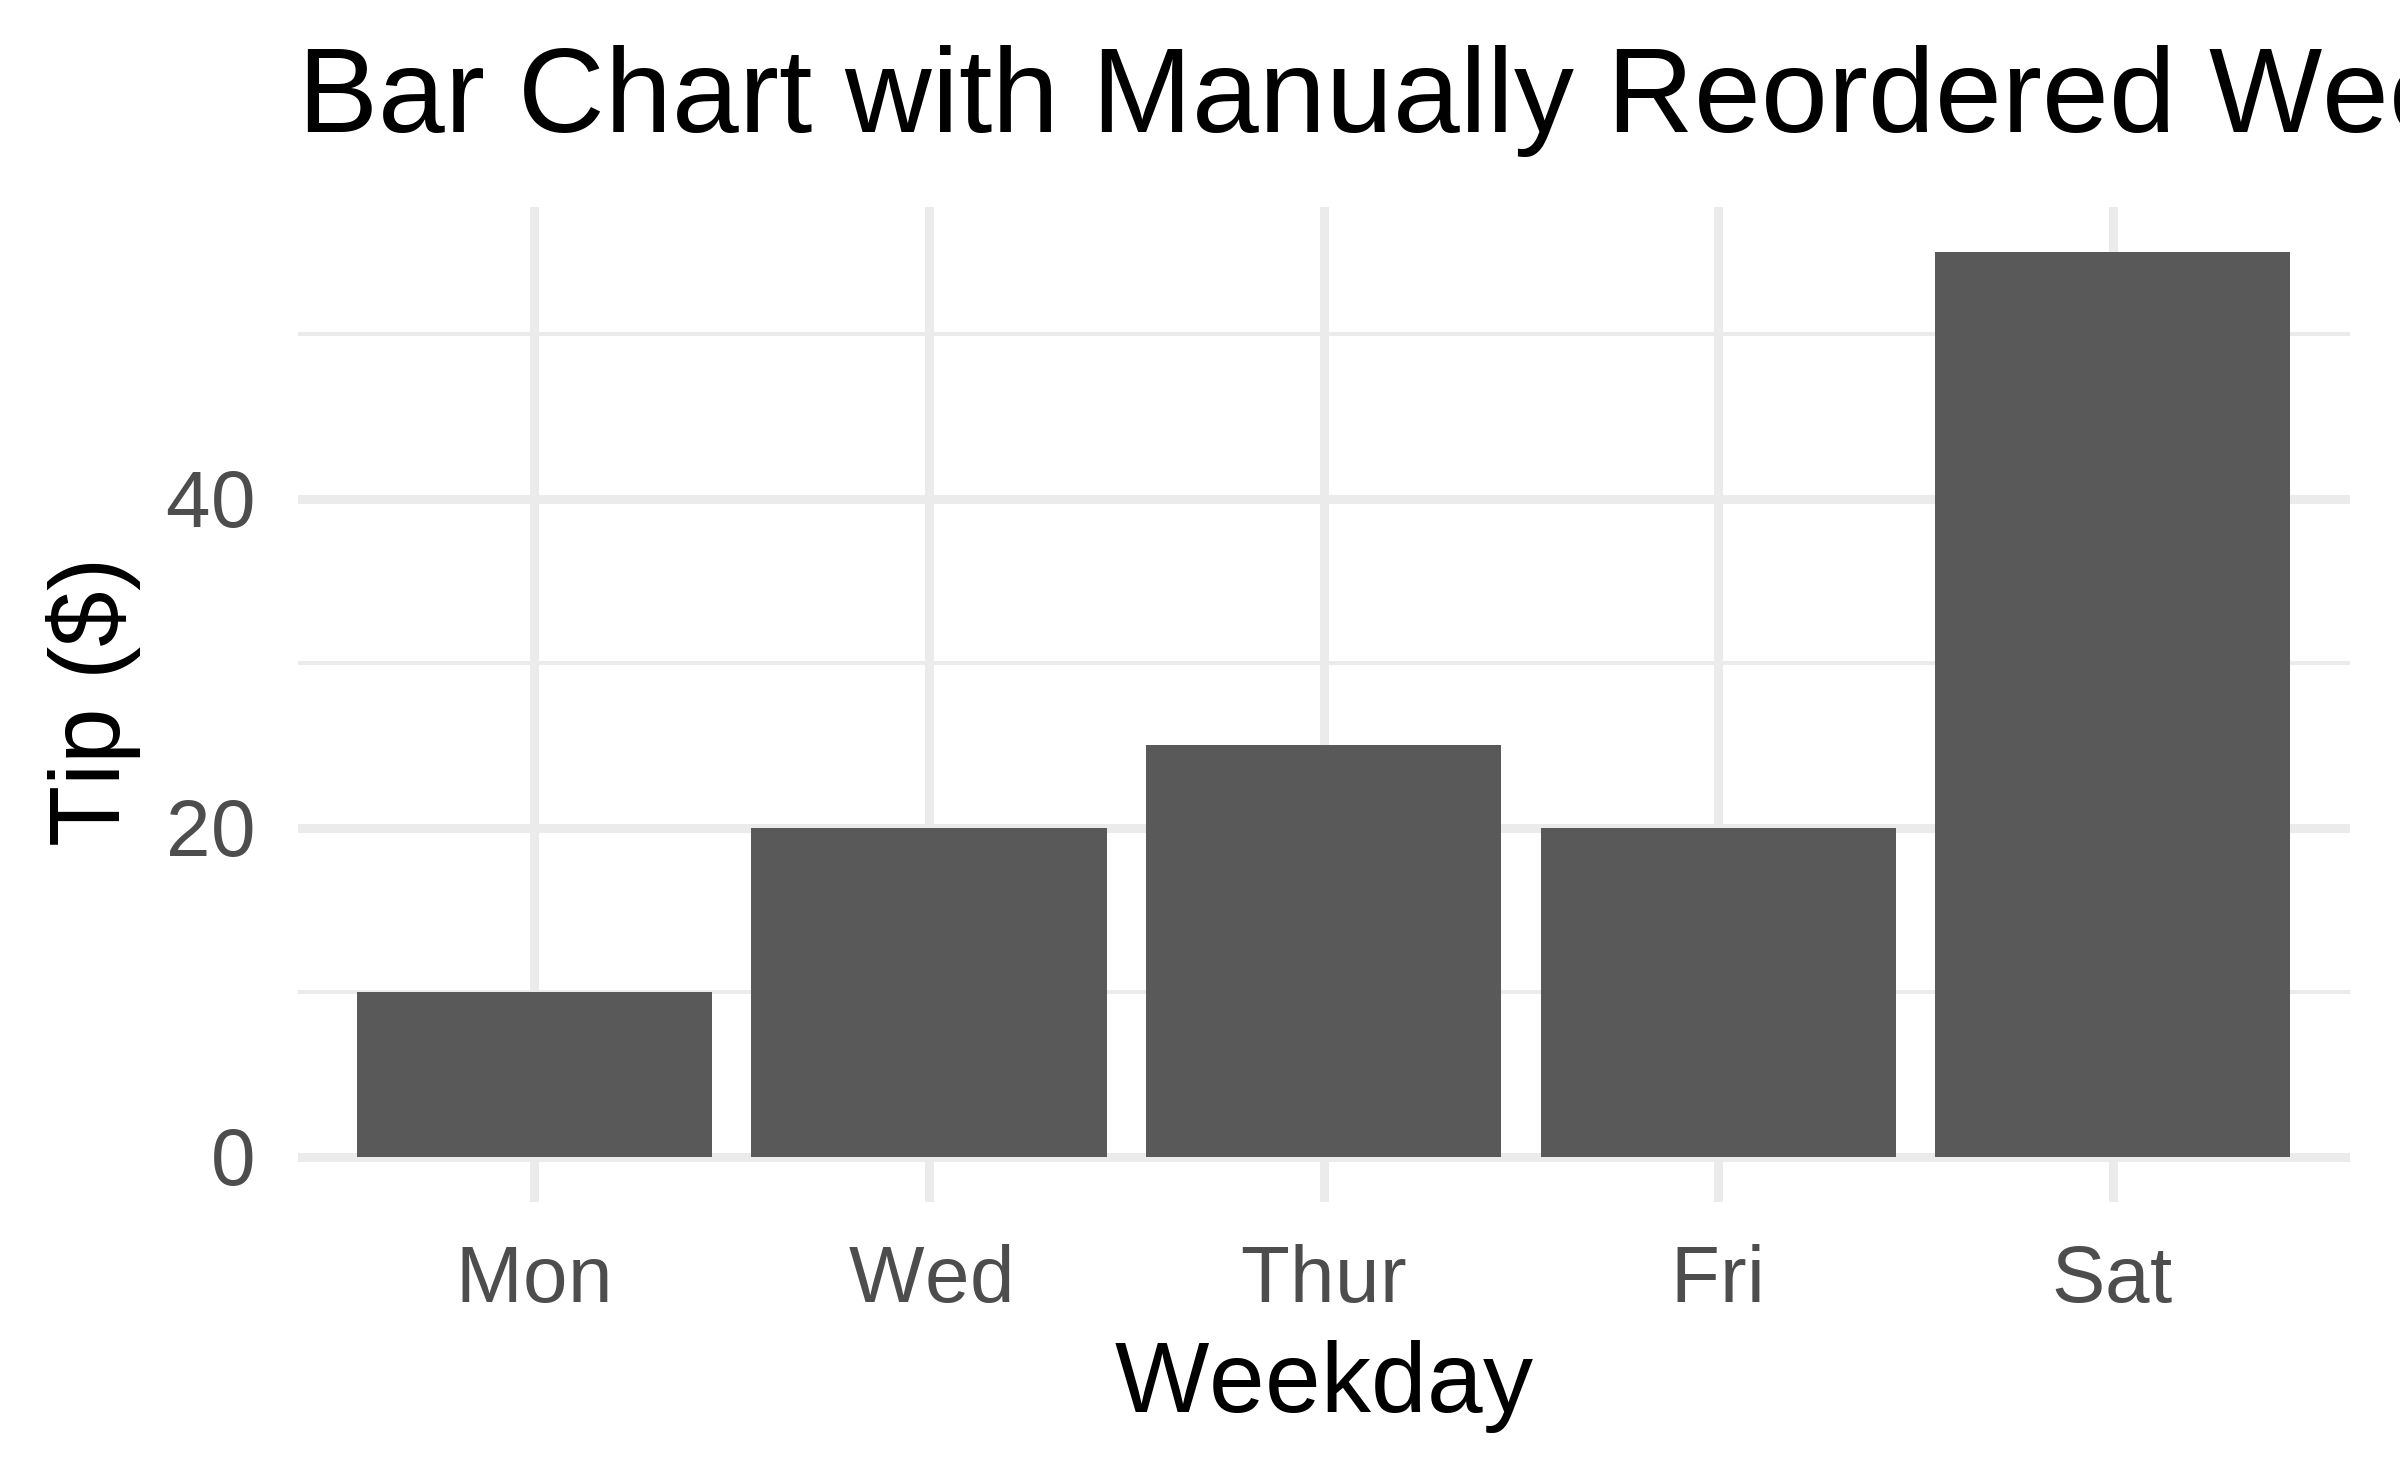
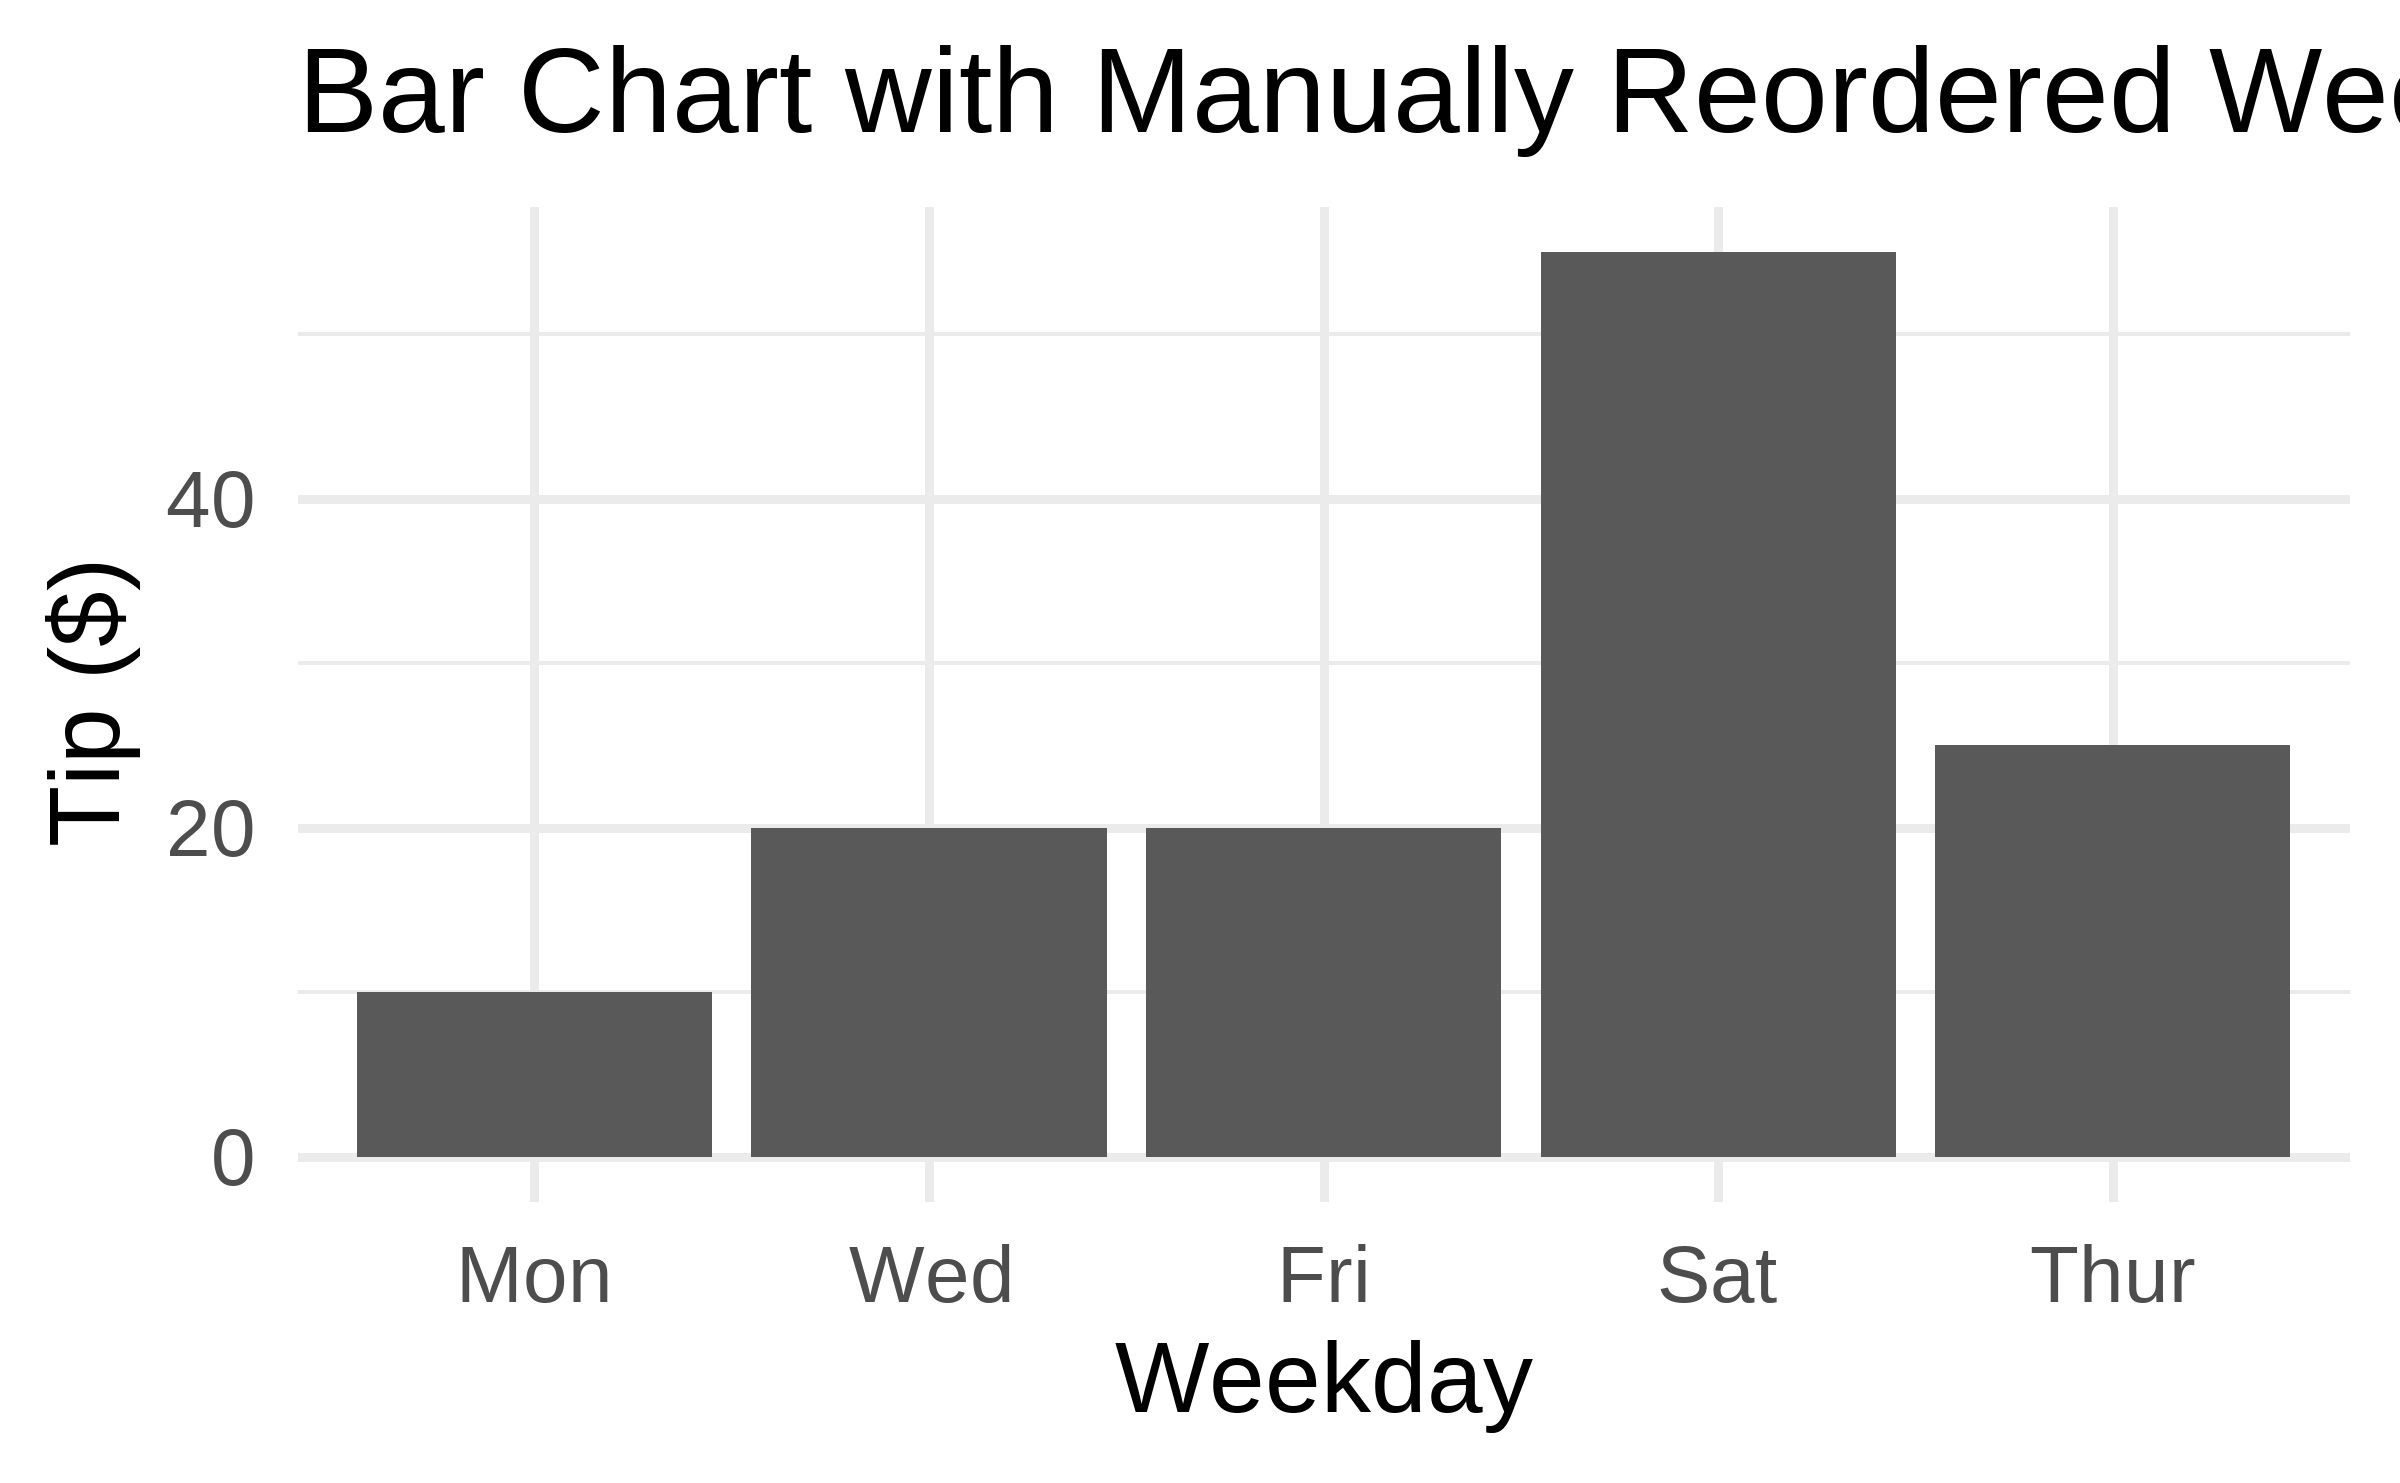
added example to relevel using factor()

diff --git a/static/slides/dplyr-more-and-cleaning/index.html b/static/slides/dplyr-more-and-cleaning/index.html
@@ -237,9 +237,9 @@ y2
 
 ## `forcats` package
 
-The previous slides summarized the theory. 
+The previous slides summarized the logic behind factor varialbes. 
 
-In practice, you can use the package `forcats` to make your life easier when you work with a dataset that has categorical variables. It provides several functions, such as:
+In practice, you can use the package `forcats` to make your life easier when you work with categorical variables. It provides several functions, such as:
 
 - `fct_reorder()` reorders a factor variable by levels of another variable
 - `fct_relevel()` changes the order of a factor variable by hand
@@ -284,7 +284,7 @@ df
 
 ---
 
-### `fct_reorder()` reorders a factor variable by levels of another variable
+#### `fct_reorder()` reorders a factor variable by levels of another variable
 Documentation: https://forcats.tidyverse.org/reference/fct_reorder.html
 
 
@@ -303,22 +303,22 @@ df %&gt;%
 
 --
 
-The code works, but the plot is not exactly correct... why? Look at the order of the bars and their labels.
+Run the code in R: it works, but the plot is not exactly correct... why? Look at the order of the bars and their labels.
 
-We need to use `fct_relevel()` to sort things by hand!
+**Challenge:** use `fct_relevel()` (from `forcats`) or `factor()` (from base R) to sort things by hand
 
 &lt;!-- point: code might work but output conceptually not what we want!!--&gt;
 
 ---
 
-### `fct_relevel()` changes the order of a factor variable by hand
+#### `fct_relevel()` changes the order of a factor variable by hand
 Documentation: https://forcats.tidyverse.org/reference/fct_relevel.html
 
 
 ```r
 df %&gt;%
   mutate(week = fct_relevel(week, 
-                            "Mon", "Wed", "Thur", "Fri", "Sat")) %&gt;%
+                            "Mon", "Wed", "Thu", "Fri", "Sat")) %&gt;%
   ggplot(aes(x = week, y = tip)) +
   geom_bar(stat = "identity") +
   labs(title = "Bar Chart with Manually Reordered Weekdays",
@@ -326,9 +326,29 @@ df %&gt;%
        y = "Tip ($)")
 ```
 
+---
+
+#### you can do the same with `factor` (from base R)
+
+
+```r
+df %&gt;%
+  mutate(week = factor(week, 
+                       levels = c("Mon", "Wed", "Thu", "Fri", "Sat"))) %&gt;%
+  ggplot(aes(x = week, y = tip)) +
+  geom_bar(stat = "identity") +
+  labs(title = "Bar Chart with Manually Reordered Weekdays",
+       x = "Weekday",
+       y = "Tip ($)")
+```
+
+&lt;!--
+Keep this trick in mind for the homework assignments (e.g., how to change a variable into a factor and manually pass labels for your graphs!)
+--&gt;
+
 --
 
-*Takeaway: the code might run, but the output conceptually may not be what we want! Check the documentation to find the best function to use to achieve your desired results*
+*Takeaway: the code might run, but the output conceptually may not be what we want! Check the documentation and your data to find the best function to use to achieve your desired results*
 
 ---
 
